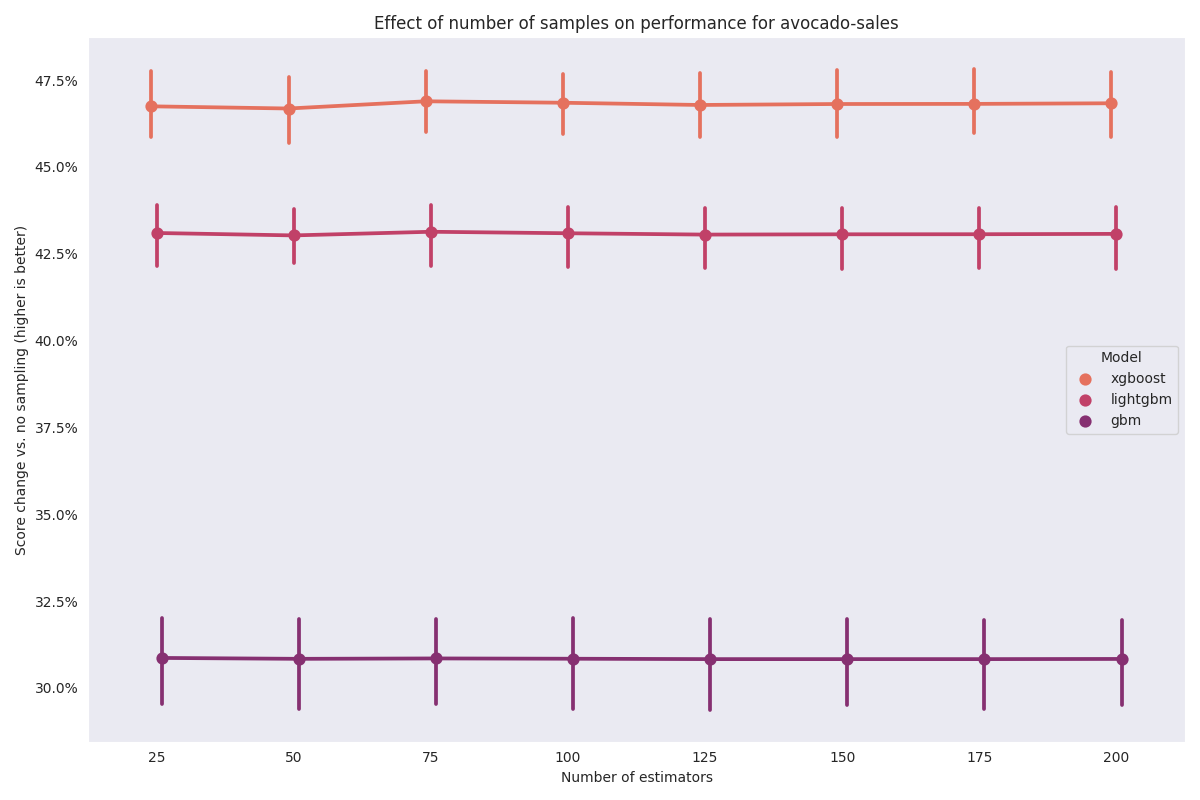
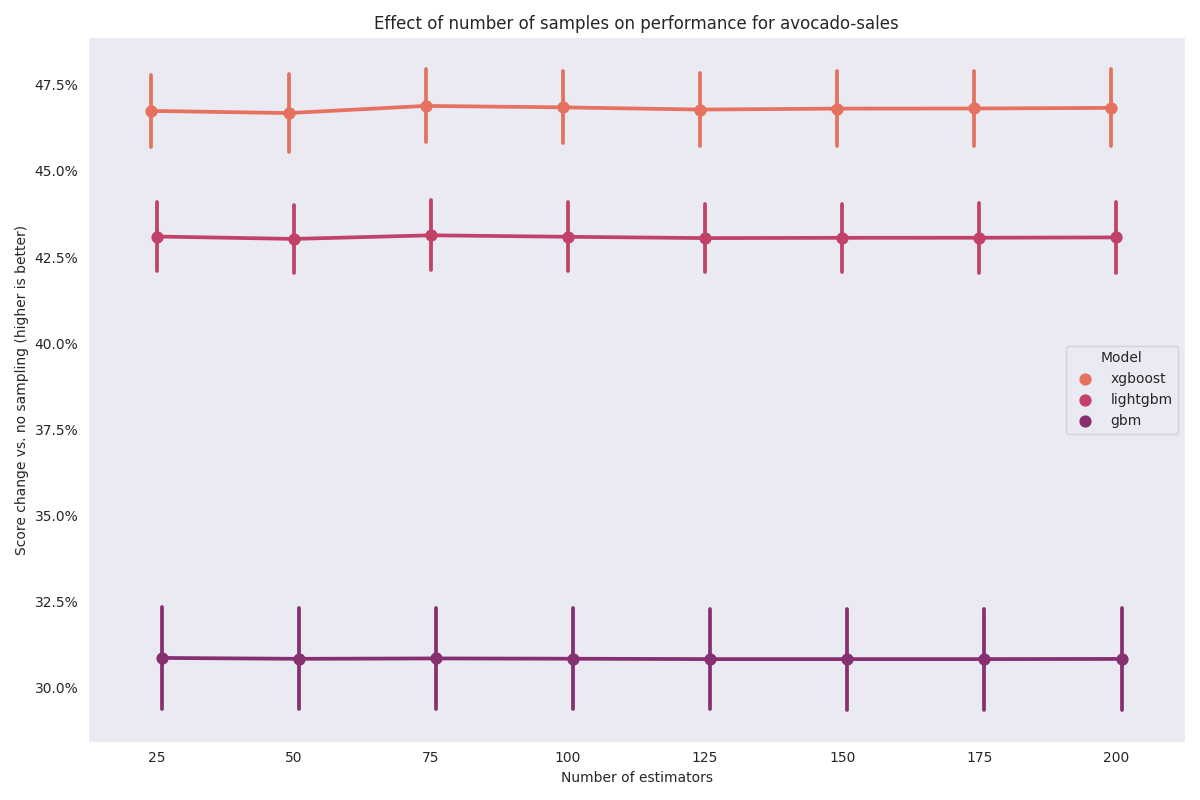
Completing more experiments

diff --git a/experiments/tasks/plots.py b/experiments/tasks/plots.py
@@ -54,12 +54,14 @@ def render_sample_perf_plot(data: pd.DataFrame):
             data["score-change"] = (data[("metrics", "score")] - non_sample) / abs(non_sample)
             fig, ax = plt.subplots(figsize=(12, 8))
             sns.pointplot(
+            #sns.lineplot(
                 x=("parameters", "n_estimators"),
                 y="score-change",
                 hue=("parameters", "model"),
                 data=data[data[("parameters", "n_estimators")] > 0],
                 palette="flare",
                 dodge=True,
+                ci="sd",
                 ax=ax
             ).set(
                 title=f"Effect of number of samples on performance for {name}",
